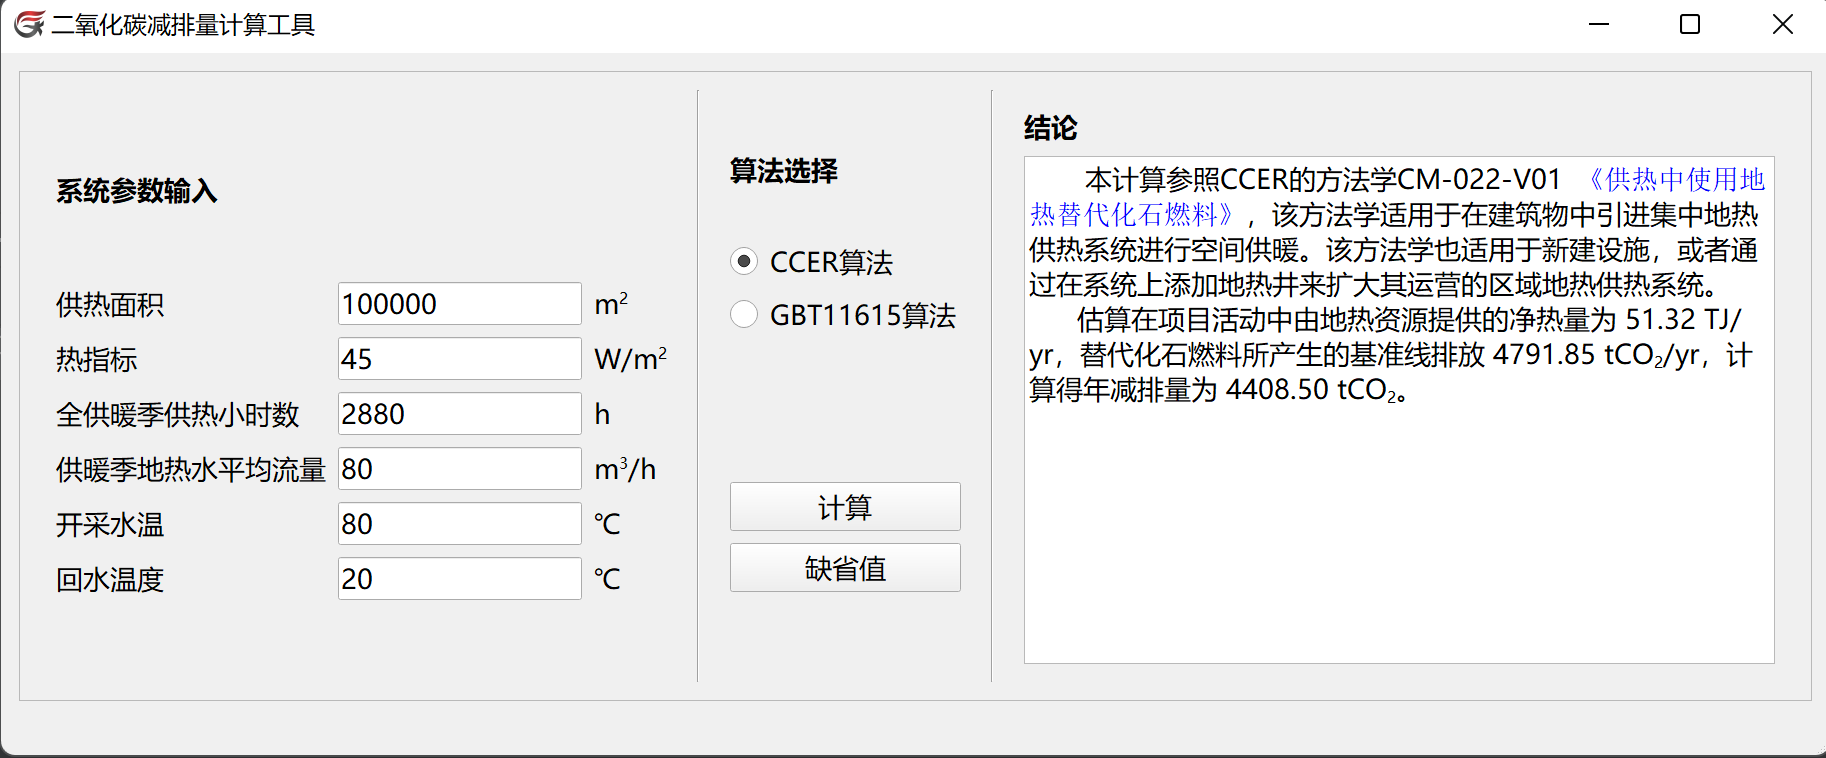
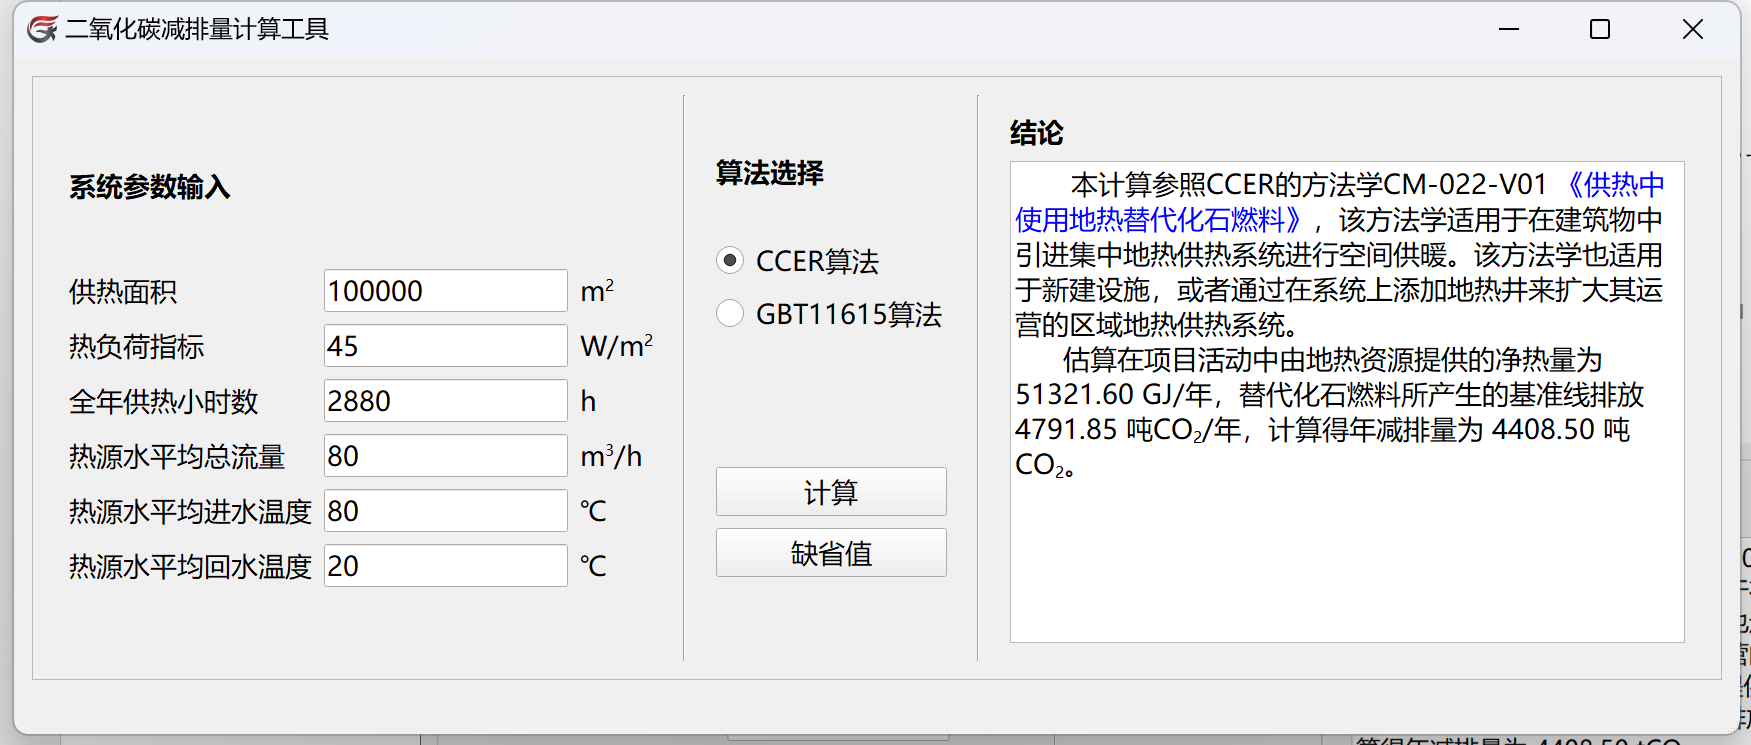
Site updated: 2024-02-07 00:21:11

diff --git a/2022/08/28/地热计算器——“二氧化碳减排量计算”模块操作介绍/index.html b/2022/08/28/地热计算器——“二氧化碳减排量计算”模块操作介绍/index.html
@@ -31,7 +31,7 @@
 <meta property="og:image" content="https://xiaomingtian-1.github.io/photo_website/CO2_3.png">
 <meta property="og:image" content="https://xiaomingtian-1.github.io/photo_website/CO2_4.png">
 <meta property="article:published_time" content="2022-08-28T15:52:10.000Z">
-<meta property="article:modified_time" content="2022-08-29T12:15:18.920Z">
+<meta property="article:modified_time" content="2024-02-06T16:16:29.681Z">
 <meta property="article:author" content="田小明(Xiaoming Tian)">
 <meta property="article:tag" content="软件实操">
 <meta name="twitter:card" content="summary">
@@ -196,7 +196,7 @@
                   <i class="far fa-calendar-check"></i>
                 </span>
                 <span class="post-meta-item-text">更新于</span>
-                <time title="修改时间：2022-08-29 20:15:18" itemprop="dateModified" datetime="2022-08-29T20:15:18+08:00">2022-08-29</time>
+                <time title="修改时间：2024-02-07 00:16:29" itemprop="dateModified" datetime="2024-02-07T00:16:29+08:00">2024-02-07</time>
               </span>
             <span class="post-meta-item">
               <span class="post-meta-item-icon">
@@ -224,16 +224,16 @@
 <h1 id="使用说明"><a href="#使用说明" class="headerlink" title="使用说明"></a>使用说明</h1><ol>
 <li><p>双击“地热计算器”图标，启动软件，如图所示：<br><img src="https://xiaomingtian-1.github.io/photo_website/CO2_1.png" alt="DBHE_1"></p>
 </li>
-<li><p>点击“计算模块”-“碳减排量计算”。</p>
+<li><p>点击“计算模块”-“二氧化碳减排量计算”。</p>
 </li>
-<li><p>输入参数<br><img src="https://xiaomingtian-1.github.io/photo_website/CO2_2.png" alt="DBHE_2"><br>可以点击“缺省值”查看数值输入格式和示例，用户也可以自行依次输入或者修改参数，参数包括：供热面积、热指标、全供暖季供热小时数、供暖季地热水平均流量、开采水温、回水温度。</p>
+<li><p>输入参数<br><img src="https://xiaomingtian-1.github.io/photo_website/CO2_2.png" alt="DBHE_2"><br>可以点击“缺省值”查看数值输入格式和示例，用户也可以自行依次输入或者修改参数，参数包括：供热面积、热负荷指标、全年供热小时数、热源水平均总流量、热源水平均进水温度、热源水平均回水温度。</p>
 </li>
 <li><p>算法选择与计算</p>
 <p>选择CCER算法计算二氧化碳减排量。点击“计算”按钮开始计算，并在结论栏输出计算结果。在联网状态下，点击结论栏中蓝色字体的“《供热中使用地热替代化石燃料》”，可跳转至网页查看该算法的参考文献。</p>
 <p><img src="https://xiaomingtian-1.github.io/photo_website/CO2_3.png" alt="DBHE_3"></p>
 <p>切换算法选择按钮值为GB/T 11615算法，点击“计算”按钮开始计算，并在结论栏输出计算结果。</p>
 <p><img src="https://xiaomingtian-1.github.io/photo_website/CO2_4.png" alt="DBHE_4"></p>
-<p>注意：此工具不适用于有热泵的供热系统。</p>
+<p>注意：本计算中仅评估地热资源利用带来的碳减排量，供热系统中电动热泵运行产生的当量二氧化碳排放量未被计入计算结果中，用户在使用过程中需根据项目中热泵实际使用情况进行相应的二氧化碳减排量核减。</p>
 </li>
 </ol>
 <h1 id="原理说明"><a href="#原理说明" class="headerlink" title="原理说明"></a>原理说明</h1><p>略。详见软件使用手册。</p>
@@ -253,31 +253,31 @@
 <td>100000</td>
 </tr>
 <tr>
-<td>热指标</td>
+<td>热负荷指标</td>
 <td>W/m<sup>2</sup></td>
 <td>必须赋值：大于0的数</td>
 <td>45</td>
 </tr>
 <tr>
-<td>全供暖季供热小时数</td>
+<td>全年供热小时数</td>
 <td>h</td>
 <td>必须赋值：0~8760之间的数</td>
 <td>2880</td>
 </tr>
 <tr>
-<td>供暖季地热水平均流量</td>
+<td>热源水平均总流量</td>
 <td>m<sup>3</sup>/h</td>
 <td>必须赋值: 大于0的数</td>
 <td>80</td>
 </tr>
 <tr>
-<td>开采水温</td>
+<td>热源水平均进水温度</td>
 <td>℃</td>
 <td>必须赋值: 0~100之间的数</td>
 <td>80</td>
 </tr>
 <tr>
-<td>回水温度</td>
+<td>热源水平均回水温度</td>
 <td>℃</td>
 <td>必须赋值: 0~100之间的数</td>
 <td>20</td>

diff --git a/2021/03/15/地热计算器——帮助/index.html b/2021/03/15/地热计算器——帮助/index.html
@@ -229,7 +229,7 @@
 </li>
 </ol>
 <h1 id="版本更新"><a href="#版本更新" class="headerlink" title="版本更新"></a>版本更新</h1><p>软件的更新会通过微信公众号“地热能在线”实时发布，请大家关注公众号“地热能在线”，免费获得软件更新信息。</p>
-<h1 id="社区帮助"><a href="#社区帮助" class="headerlink" title="社区帮助"></a>社区帮助</h1><p>欢迎有志于改进本软件的业界同仁与我们联系，访问我们的社区网址或电邮<a href="mailto:&#x67;&#x65;&#x6f;&#x74;&#x68;&#x65;&#x72;&#109;&#x61;&#108;&#x6b;&#x69;&#x74;&#115;&#x40;&#49;&#54;&#51;&#x2e;&#x63;&#x6f;&#x6d;">&#x67;&#x65;&#x6f;&#x74;&#x68;&#x65;&#x72;&#109;&#x61;&#108;&#x6b;&#x69;&#x74;&#115;&#x40;&#49;&#54;&#51;&#x2e;&#x63;&#x6f;&#x6d;</a>。</p>
+<h1 id="社区帮助"><a href="#社区帮助" class="headerlink" title="社区帮助"></a>社区帮助</h1><p>欢迎有志于改进本软件的业界同仁与我们联系，访问我们的社区网址或电邮<a href="mailto:&#x67;&#101;&#x6f;&#x74;&#104;&#101;&#x72;&#109;&#97;&#x6c;&#107;&#x69;&#x74;&#115;&#x40;&#x31;&#54;&#51;&#x2e;&#99;&#x6f;&#109;">&#x67;&#101;&#x6f;&#x74;&#104;&#101;&#x72;&#109;&#97;&#x6c;&#107;&#x69;&#x74;&#115;&#x40;&#x31;&#54;&#51;&#x2e;&#99;&#x6f;&#109;</a>。</p>
 <h1 id="法律声明"><a href="#法律声明" class="headerlink" title="法律声明"></a>法律声明</h1><h2 id="版权声明"><a href="#版权声明" class="headerlink" title="版权声明"></a>版权声明</h2><p>版本号：地热计算器 V3.4<br>Version：Geothermal Kits V3.4<br>版权所有：中国科学院地质与地球物理研究所和软件开发人员，保留所有权利：包括但不限于软件源代码、版权以及地热计算器的名称和图标等。<br>Copyright: Institute of Geology and Geophysics, Chinese Academy of Sciences &amp; the developers. All rights reserved.</p>
 <h2 id="使用声明"><a href="#使用声明" class="headerlink" title="使用声明"></a>使用声明</h2><p>（1）本软件井距计算的核心算法基于Kong et al. (2017)，计算过程中调用了德国亥姆霍兹环境研究中心Olaf Kolditz团队开发的开源数值模拟软件OpenGeoSys （Kolditz et al., 2012）。使用本软件输出的结果需在相应成果材料中声明使用“地热计算器”（English: Geothermal Kits）计算，并请引用以下文献：</p>
 <p>Kong, Y., Pang, Z., Shao, H. and Kolditz, O. (2017). Optimization of well-doublet placement in geothermal reservoirs using numerical simulation and economic analysis, Environ Earth Sci, 76:118.</p>

diff --git a/2021/03/15/地热计算器——软件安装及获取证书/index.html b/2021/03/15/地热计算器——软件安装及获取证书/index.html
@@ -222,7 +222,7 @@
 <p>2、下载安装包到计算以后，双击“地热计算器”安装包图标，根据提示即可完成安装。</p>
 <p>3、<font color=red size=4>注意</font>：由于Windows10系统默认没有给C盘文件写入权限，而本软件运行时会产生一些中间文件，有可能会被系统拦截导致软件崩溃，因此<font color=red size=4>不建议</font>安装在C盘。如果您的计算机只有C盘一个盘，那么请将C盘的写入权限更改后再安装本软件。</p>
 <h1 id="获得证书"><a href="#获得证书" class="headerlink" title="获得证书"></a>获得证书</h1><p>在未获得证书之前，打开软件将看到如下界面：<br><img src="https://xiaomingtian-1.github.io/photo_website/license_1.png" alt="license_1"></p>
-<p>其中本机机器码依不同的计算机而各不相同您可以将上述生成的机器码发送到上述微信号drnzx9527或者<a href="mailto:&#103;&#101;&#x6f;&#x74;&#104;&#x65;&#114;&#x6d;&#x61;&#108;&#107;&#x69;&#116;&#115;&#x40;&#49;&#54;&#x33;&#x2e;&#x63;&#x6f;&#109;">&#103;&#101;&#x6f;&#x74;&#104;&#x65;&#114;&#x6d;&#x61;&#108;&#107;&#x69;&#116;&#115;&#x40;&#49;&#54;&#x33;&#x2e;&#x63;&#x6f;&#109;</a>，管理员将于两个工作日内将证书发送到您的邮箱。在获得证书并导入成功后，您将看到如下提示：<br><img src="https://xiaomingtian-1.github.io/photo_website/license_2.png" alt="license_2"></p>
+<p>其中本机机器码依不同的计算机而各不相同您可以将上述生成的机器码发送到上述微信号drnzx9527或者<a href="mailto:&#x67;&#x65;&#x6f;&#x74;&#x68;&#101;&#114;&#109;&#x61;&#x6c;&#x6b;&#x69;&#116;&#115;&#64;&#49;&#54;&#x33;&#46;&#99;&#x6f;&#109;">&#x67;&#x65;&#x6f;&#x74;&#x68;&#101;&#114;&#109;&#x61;&#x6c;&#x6b;&#x69;&#116;&#115;&#64;&#49;&#54;&#x33;&#46;&#99;&#x6f;&#109;</a>，管理员将于两个工作日内将证书发送到您的邮箱。在获得证书并导入成功后，您将看到如下提示：<br><img src="https://xiaomingtian-1.github.io/photo_website/license_2.png" alt="license_2"></p>
 <p><strong>注意：如果在导入过程中出现闪退，说明您计算机的C盘不允许文件写入。您可以重新将本软件安装在其他盘。如果您的其他盘依旧不允许写入，请联系软件开发人员协助安装。</strong></p>
 
     </div>

diff --git a/index.html b/index.html
@@ -267,7 +267,7 @@
                   <i class="far fa-calendar-check"></i>
                 </span>
                 <span class="post-meta-item-text">更新于</span>
-                <time title="修改时间：2022-08-29 20:15:18" itemprop="dateModified" datetime="2022-08-29T20:15:18+08:00">2022-08-29</time>
+                <time title="修改时间：2024-02-07 00:16:29" itemprop="dateModified" datetime="2024-02-07T00:16:29+08:00">2024-02-07</time>
               </span>
             <span class="post-meta-item">
               <span class="post-meta-item-icon">

diff --git a/css/main.css b/css/main.css
@@ -1168,7 +1168,7 @@ pre .javascript .function {
 }
 .links-of-author a::before,
 .links-of-author span.exturl::before {
-  background: #aa4182;
+  background: #a1a732;
   border-radius: 50%;
   content: ' ';
   display: inline-block;
